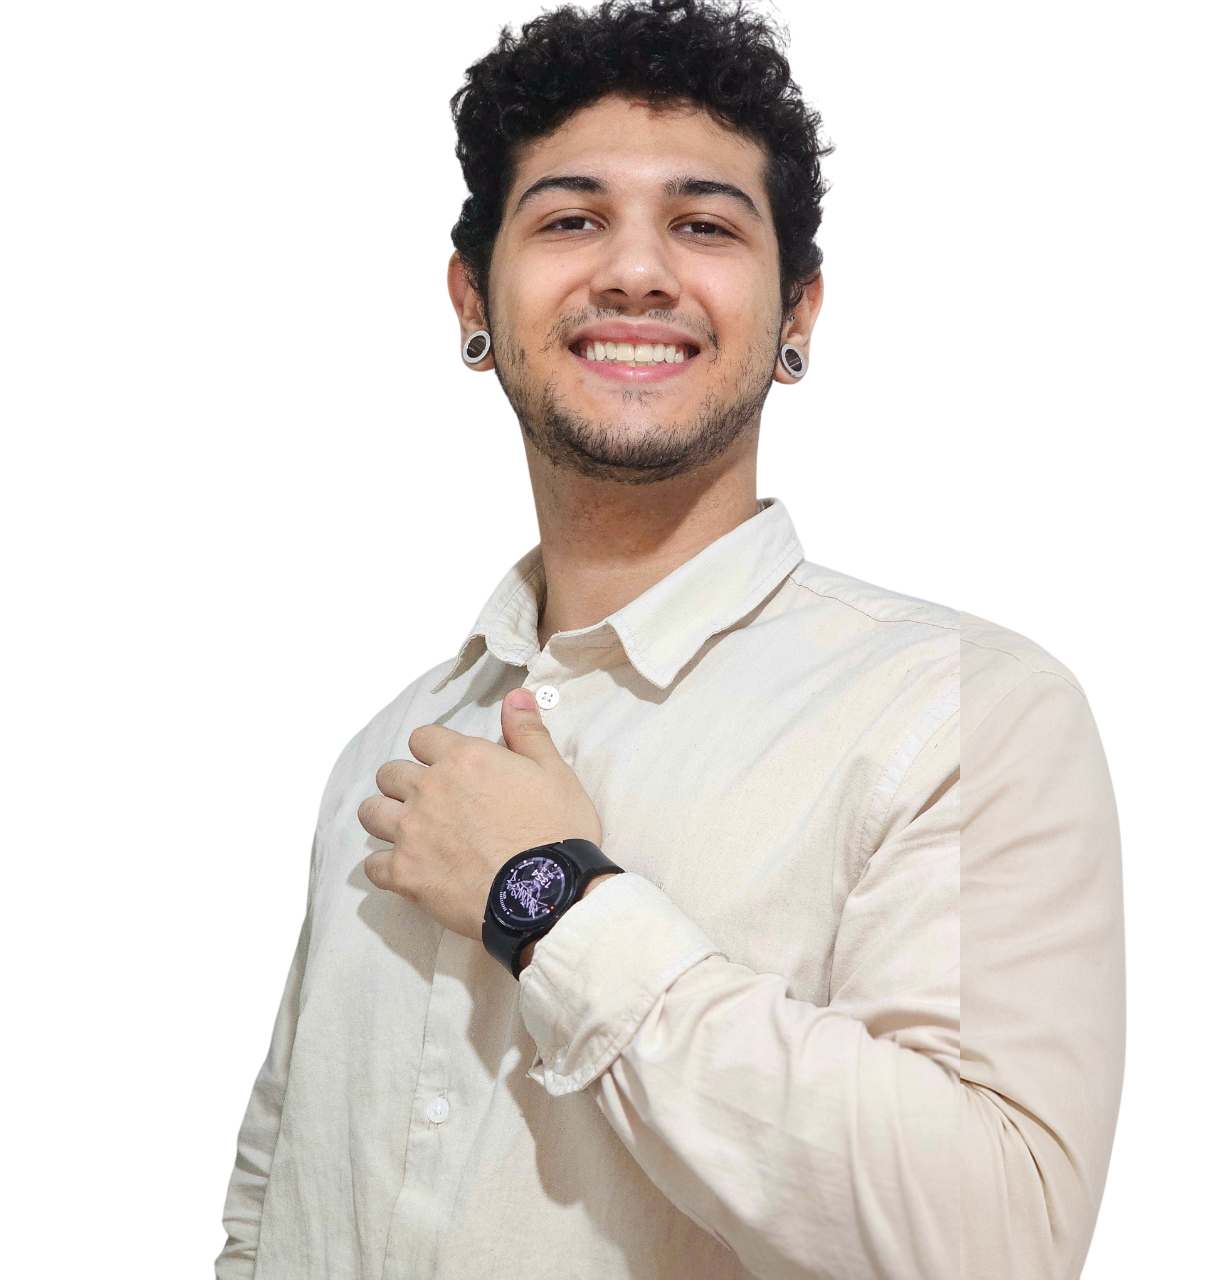
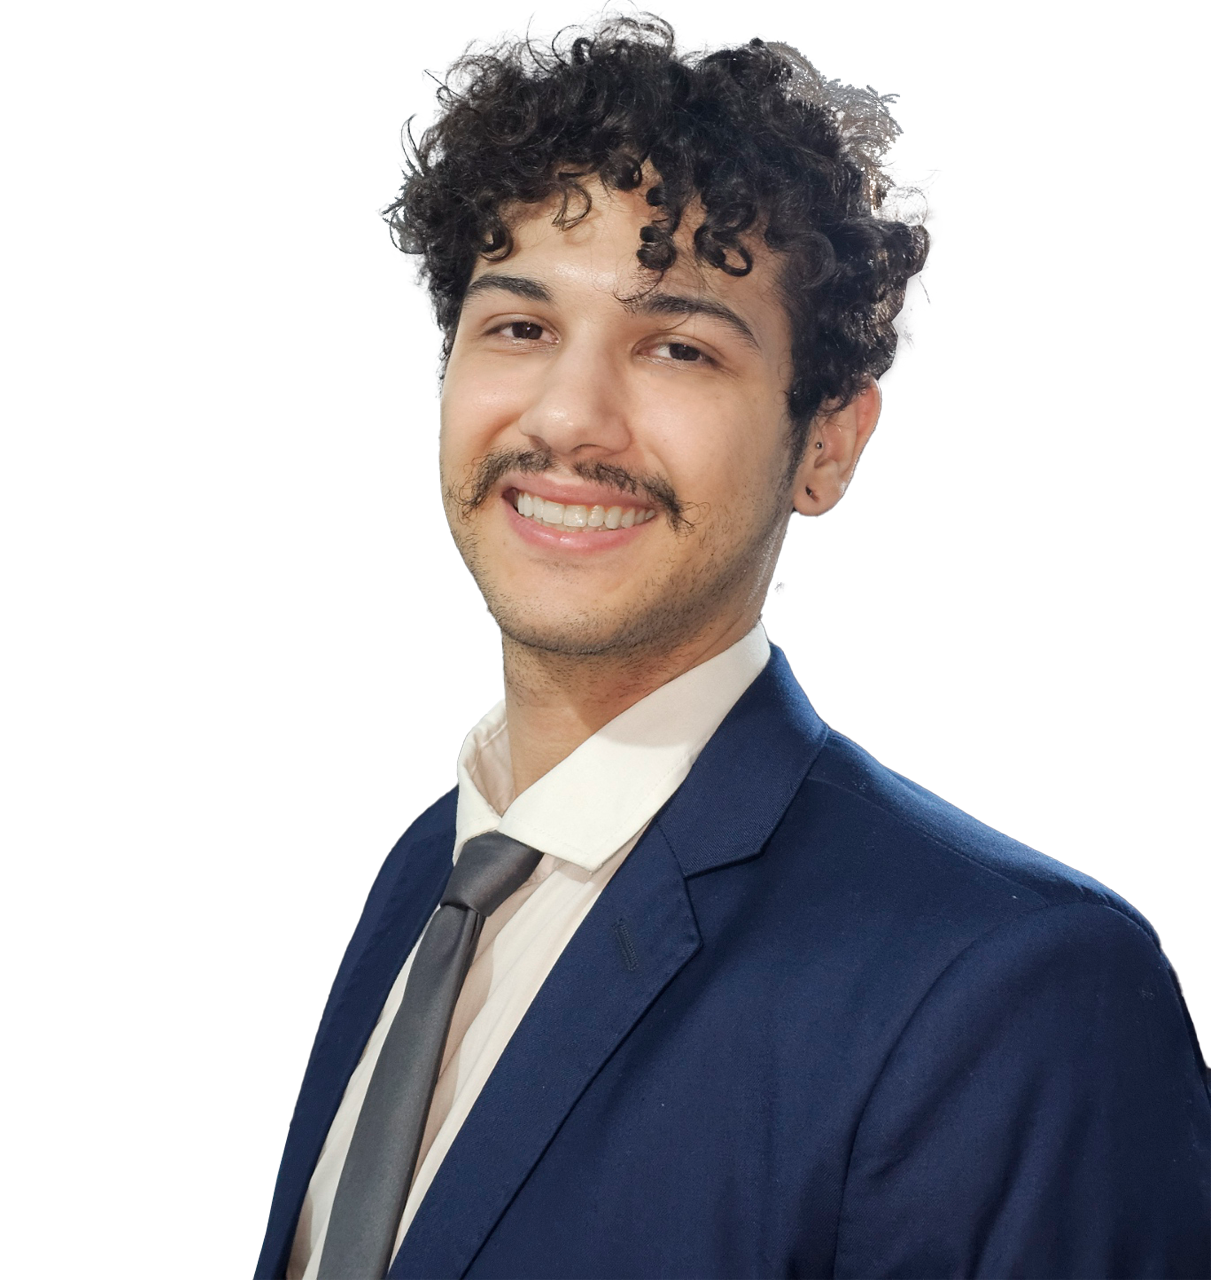
foto nova

diff --git a/src/theme-colors.scss b/src/theme-colors.scss
@@ -25,6 +25,7 @@
   --text-card-h3: #2a66a7;
   --text-card-p: #272d35;
 
+  --background-0: #c3cbd3;
   --background-50: #e8f2fc;
   --background-100: #d1e5fa;
   --background-200: #a3ccf5;
@@ -107,6 +108,7 @@
   --text-card-h3: #93c5fd;
   --text-card-p: #cbd5e1;
 
+  --background-0: #081522;
   --background-50: #030d17;
   --background-100: #05192e;
   --background-200: #0a335c;

diff --git a/src/app/pages/network/network.component.scss b/src/app/pages/network/network.component.scss
@@ -88,7 +88,7 @@ img{border: 1px solid var(--text-950);}
   transform: translateX(0) scale(1);
 }
 
-.arrow-page{ z-index: 500; background-color: var(--text-950);
+.arrow-page{ z-index: 500; background-color: var(--text-card-h3);
   i{color: var(--text-50);}
 }
 

diff --git a/src/app/pages/projects/projects.component.scss b/src/app/pages/projects/projects.component.scss
@@ -205,7 +205,7 @@
   }
 }
 
-.arrow-page{ z-index: 500; }
+.arrow-page{ z-index: 500; background-color: var(--text-card-h3) !important;}
 
 @media (max-width: 767px) {  
   .carousel-container{height: auto !important;}

diff --git a/src/styles.scss b/src/styles.scss
@@ -13,7 +13,7 @@
 
 .d-flex { display: flex; }
 body { 
-  background-color: var(--background-50);
+  background-color: var(--background-0);
   transition: background-color 0.5s ease, color 0.5s ease;
 }
 
